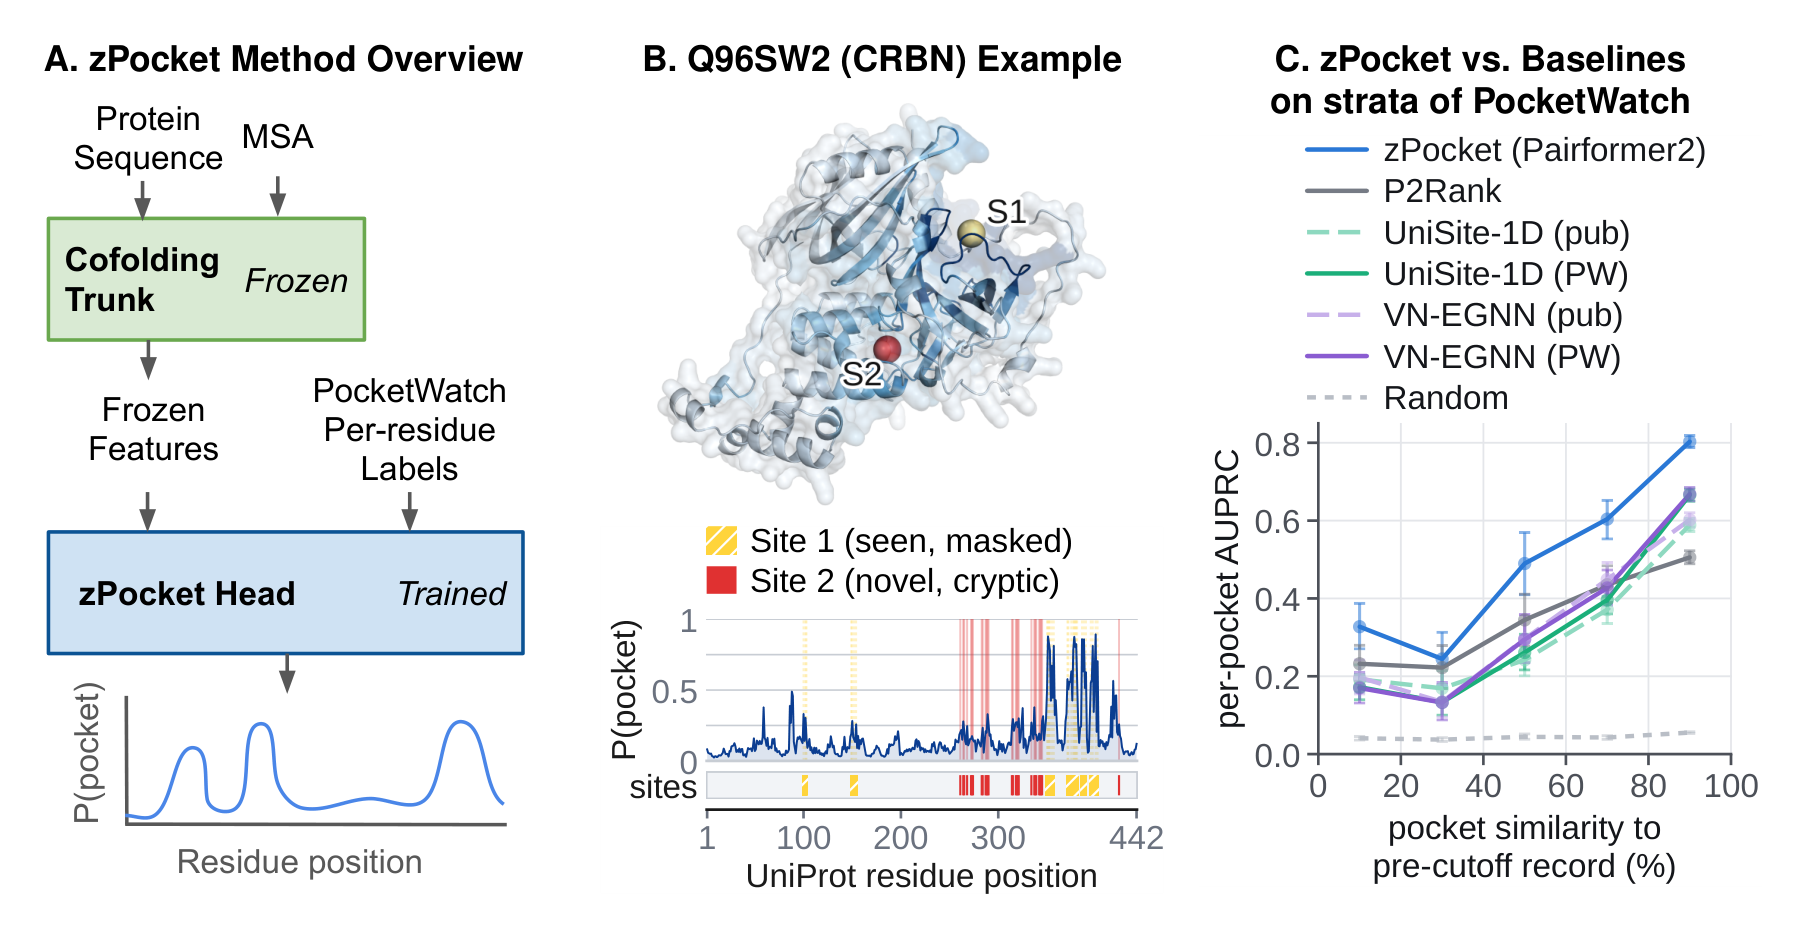
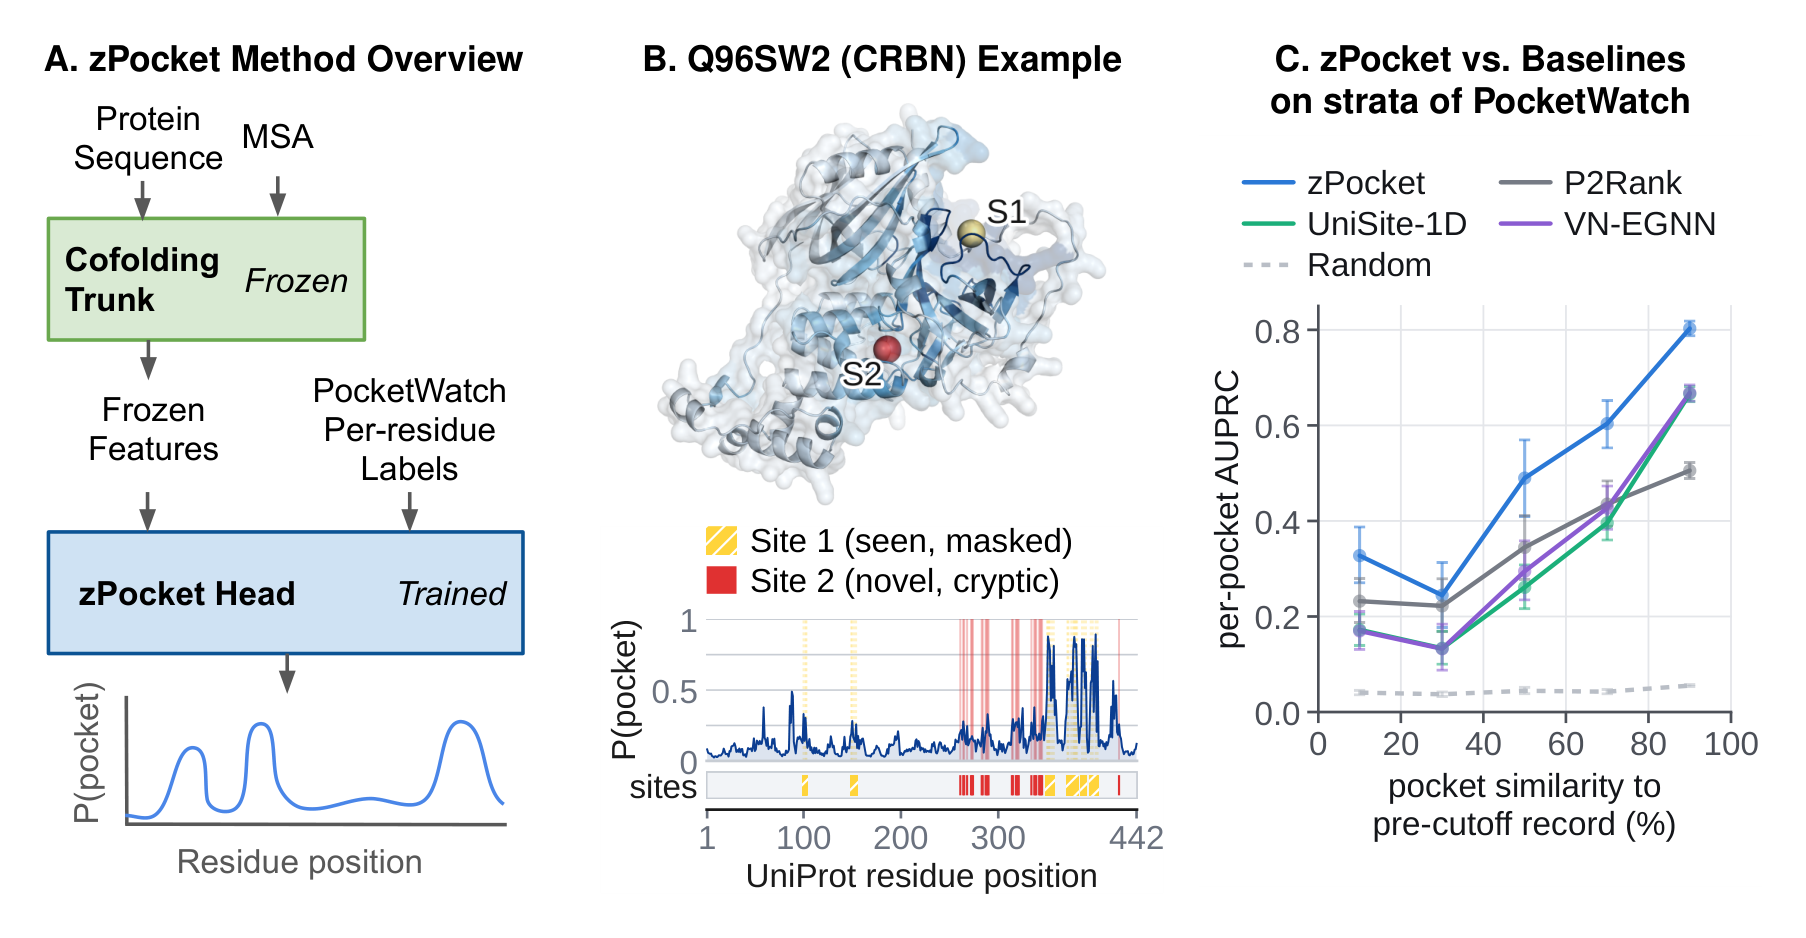
docs: update the README's Figure 1 to the retrained-baselines version (#8)
The paper's Figure 1C now shows only the baselines retrained on PocketWatch,
with plain legend names. The README image is re-exported from the paper, and
its caption and alt text say UniSite-1D and VN-EGNN are retrained on
PocketWatch instead of explaining the pub/PW labels.

Changed region(s): [[0.6512, 0.1546, 0.9922, 0.9584], [0.9302, 0.3401, 0.9612, 0.371]]

diff --git a/README.md b/README.md
@@ -18,15 +18,15 @@ ESMFold2 is the only supported trunk. The paper also reports stronger results wi
 Protenix-v2, but that backend was removed because its weights are no longer publicly
 available.
 
-![Three-panel overview from the paper. A: a protein sequence and its MSA are folded by a frozen co-folding trunk, and a trained zPocket head turns the frozen features into a per-residue pocket probability. B: cereblon (UniProt Q96SW2), with the predicted probability painted on its ESMFold2 fold and plotted along the sequence; site S1 was already known before the training cutoff and S2 is novel and cryptic. C: per-pocket AUPRC against pocket similarity to the pre-cutoff record, where zPocket scores above P2Rank, UniSite-1D and VN-EGNN in every bin.](press_images/paper_figure1.png)
+![Three-panel overview from the paper. A: a protein sequence and its MSA are folded by a frozen co-folding trunk, and a trained zPocket head turns the frozen features into a per-residue pocket probability. B: cereblon (UniProt Q96SW2), with the predicted probability painted on its ESMFold2 fold and plotted along the sequence; site S1 was already known before the training cutoff and S2 is novel and cryptic. C: per-pocket AUPRC against pocket similarity to the pre-cutoff record, where zPocket scores above P2Rank and the PocketWatch-retrained UniSite-1D and VN-EGNN in every bin.](press_images/paper_figure1.png)
 
 *Figure 1 of the paper. **(A)** A frozen co-folding trunk folds the sequence, and a small
 head trained on its frozen features predicts a pocket probability for every residue.
 **(B)** Cereblon (UniProt Q96SW2). Site S1 was already in the pre-cutoff record, so its
 residues are masked from scoring; S2 is novel and cryptic. **(C)** Per-pocket AUPRC on the
 PocketWatch test set, binned by how much of each pocket a pre-cutoff pocket already covers.
-zPocket (ESMFold2 trunk, `pairformer2` head) leads every baseline in every bin; "pub" marks
-published weights and "PW" retraining on PocketWatch.*
+zPocket (ESMFold2 trunk, `pairformer2` head) leads every baseline in every bin; UniSite-1D
+and VN-EGNN are both retrained on PocketWatch.*
 
 ## Install
 
